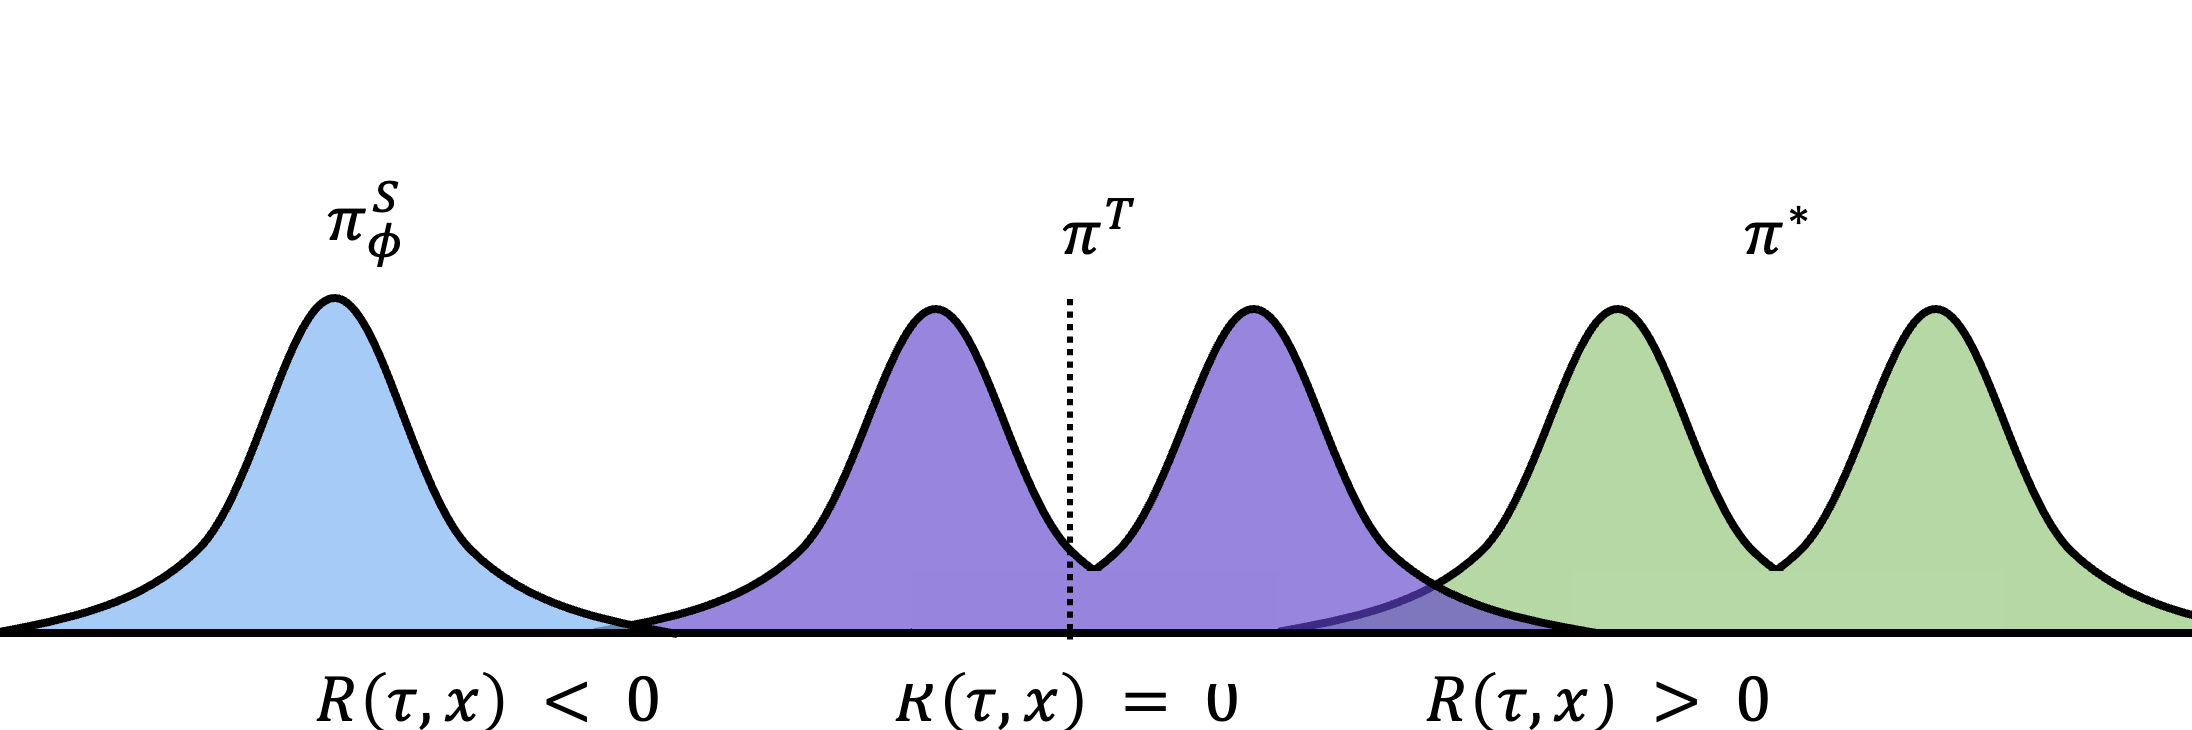
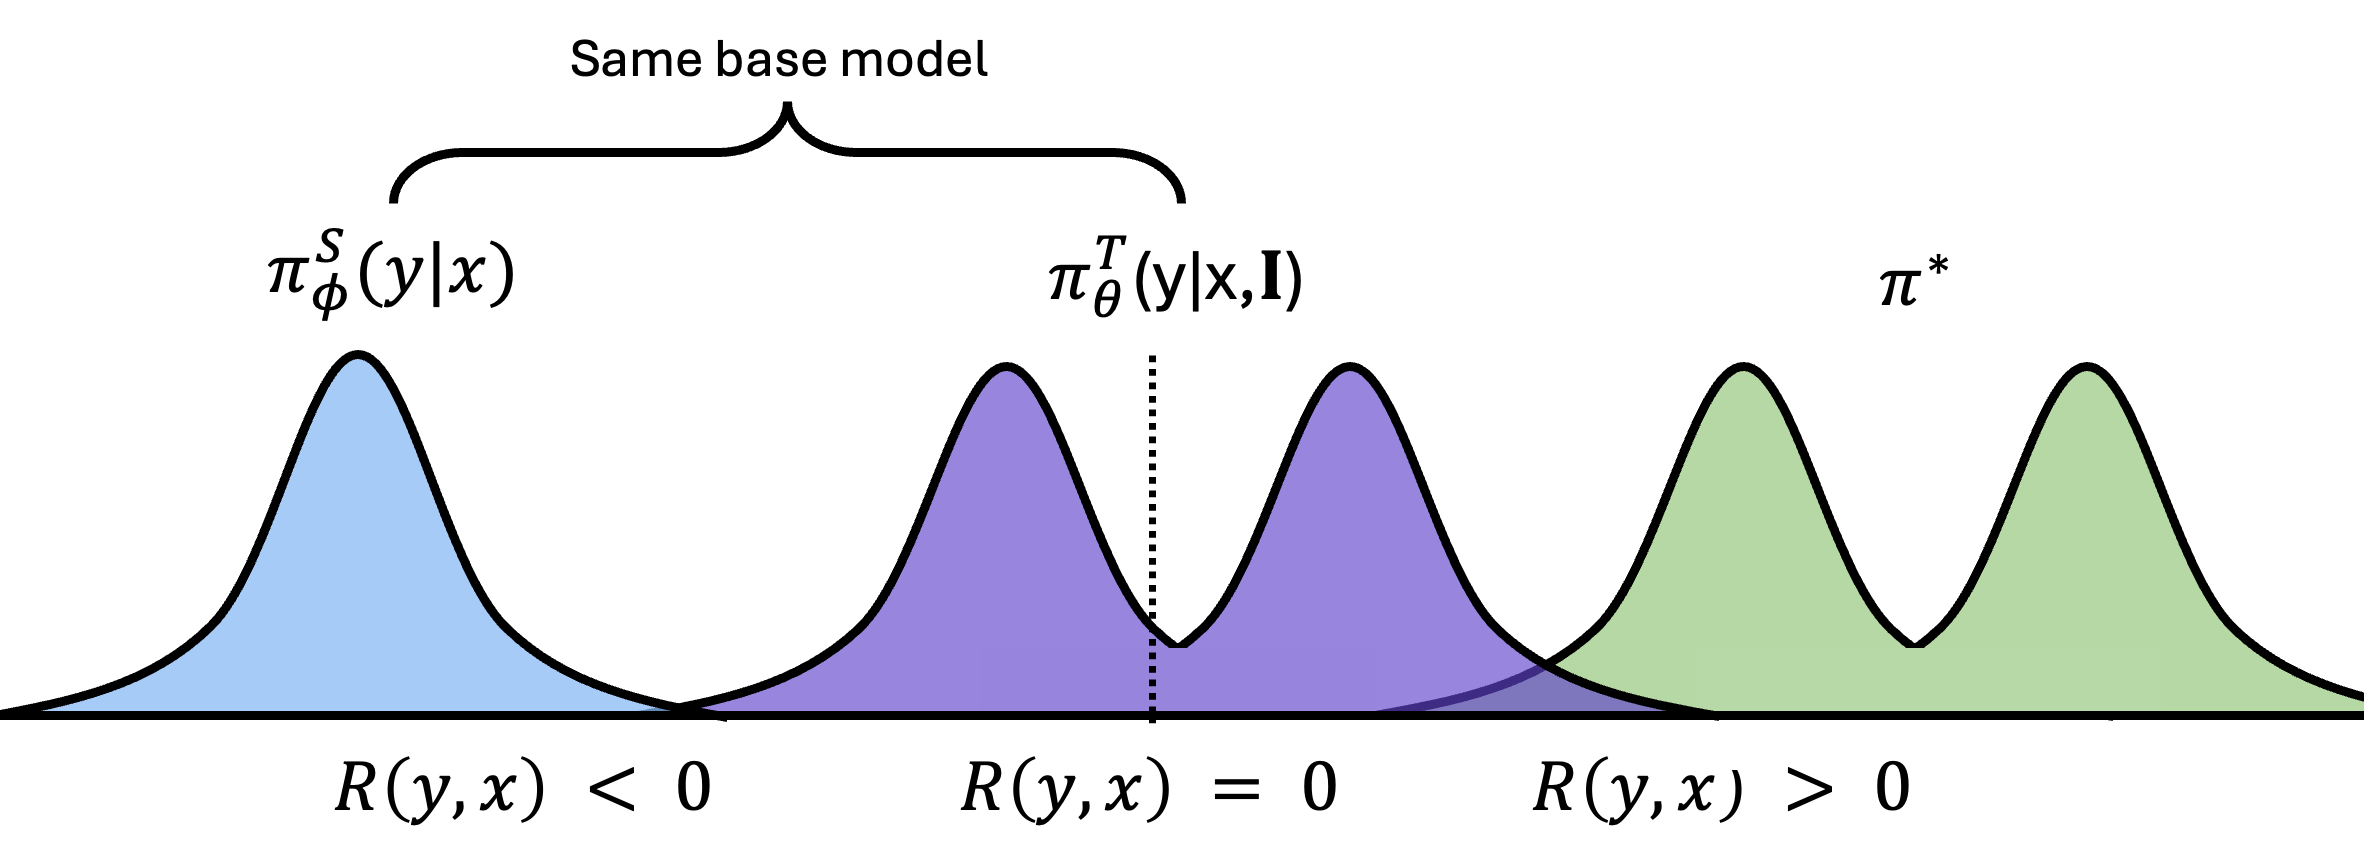
Update prose, add citations, fix notation and baseurl paths
- Add authors (Dheeraj Vattikonda)
- Add citations: Wang et al. 2023 (self-consistency), Sutton & Barto 2018
- Use \piSphifull in full derivation
- Improve flow throughout post
- Fix figure path for start-w-teacher.png

diff --git a/_posts/2026-02-04-privileged-information-distillation.md b/_posts/2026-02-04-privileged-information-distillation.md
@@ -4,6 +4,8 @@ date: 2026-02-04
 authors:
   - name: "Emiliano Penaloza"
     url: "https://emilianopp.com/#/home"
+  - name: "Dheeraj Vattikonda"
+    url: "https://vattikondadheeraj.github.io/"
   - name: "Siddarth Venkatraman"
     url: "https://hyperpotatoneo.github.io/"
 description: "An introductory guide to self-distillation and privileged information distillation for language models. Covers RL-as-inference, forward-KL (SFT), reverse-KL self-distillation, reward-tilted distillation, variational EM, and pi-Distill with interactive visualizations."
@@ -23,7 +25,7 @@ citation: |
 This post provides an introductory overview of recent works on self-distillation and privileged information distillation, including [Shenfeld et al. (2026)](#ref-shenfeld2026), [Zhao et al. (2026)](#ref-zhao2026), [Hübotter et al. (2026)](#ref-hubotter2026), and [Penaloza et al. (2026)](#ref-penaloza2026). We aim to build intuition for how these algorithms work, where they come from, and when their assumptions hold. Throughout, we favour gaining intuition over providing a complete nuanced view, using simplified 2D/3D visualizations of these algorithms to describe the core ideas.
 
 
-Our work spans the intersection of variational inference and reinforcement learning applied to LMs. We hope this blog is approachable to a broad audience assuming only a small background in reinforcement learning. Regardless, we provide some supplemental reading for those interested.
+We hope this blog is approachable to a broad audience assuming only a small background in reinforcement learning and its application to LMs. Regardless, we provide some supplemental reading for those interested. 
 <details>
 <summary><strong>Supplemental Reading</strong> (click to expand)</summary>
 
@@ -61,7 +63,7 @@ Our work spans the intersection of variational inference and reinforcement learn
 
 </details>
 
-## Reinforcement Learning as Inference
+## Reinforcement Learning as Variational Inference
 
 The goal of RL is to maximize reward
 
@@ -69,13 +71,13 @@ $$
 \piStar = \arg\max_\pi \mathbb{E}_{y \sim \pi(\cdot \mid x)}\left[R(y, x)\right]
 $$
 
-to obtain a target policy $\piStar$. A slightly different perspective treats RL as an inference problem where we define the target policy as a distribution over outputs
+to obtain a target policy $\piStar$. A slightly different perspective treats RL as a *variational* inference problem where we define the target policy as a distribution over outputs
 
 $$
 \piStarfull = \frac{1}{Z(x)}\,\pi_{\mathrm{ref}}(y \mid x)\exp\left(\frac{R(y, x)}{\beta}\right)
 $$
 
-Since the partition function $Z$ makes direct inference intractable, we instead parameterize an approximate policy $\piSphi$ and minimize the reverse-KL divergence to $\piStar$. We use the reverse direction because we can only sample from $\piSphi$, not from $\piStar$
+Since the partition function $Z$ makes direct inference intractable, we instead parameterize an approximate policy $\piSphi$ and minimize the reverse-KL divergence to $\piStar$. Where we use reverse-KL as we can only sample from $\piSphi$, not from $\piStar$
 
 $$
 \underbrace{D_{\text{kl}}(\piSphi \;\|\; \piStar)}_{\text{Reverse-KL}} = \mathbb{E}_{y\sim\piSphi}\left[\log\frac{\piSphi(y \mid x)}{\piStarfull}\right]
@@ -90,15 +92,15 @@ $$
 <details>
 <summary><strong>Full Derivation</strong> (click to expand)</summary>
 
-<p>Expanding the $\piStar$ definition and starting from the reverse-KL</p>
+<p> Starting from the reverse-KL objective and substituting in the definition of $\piStar$ </p>
 
 $$
 \begin{aligned}
 D_{\text{kl}}(\piSphi \;\|\; \piStar)
-&= \mathbb{E}_{y\sim\piSphi}\left[\log\frac{\piSphi(y \mid x)}{\piStarfull}\right] \\
-&= \mathbb{E}_{y\sim\piSphi}\left[\log\frac{\piSphi(y \mid x)}{\frac{1}{Z(x)}\,\pi_{\mathrm{ref}}(y \mid x)\exp\!\left(\frac{R(y,x)}{\beta}\right)}\right] \\
-&= \mathbb{E}_{y\sim\piSphi}\left[\log\piSphi(y \mid x) - \log\pi_{\mathrm{ref}}(y \mid x) - \frac{R(y,x)}{\beta} + \log Z(x)\right] \\
-&= D_{\text{kl}}(\piSphi\;\|\;\pi_{\mathrm{ref}}) - \frac{1}{\beta}\,\mathbb{E}_{y\sim\piSphi}\left[R(y, x)\right] + \log Z(x)
+&= \mathbb{E}_{y\sim\piSphifull}\left[\log\frac{\piSphifull}{\piStarfull}\right] \\
+&= \mathbb{E}_{y\sim\piSphifull}\left[\log\frac{\piSphifull}{\frac{1}{Z(x)}\,\pi_{\mathrm{ref}}(y \mid x)\exp\!\left(\frac{R(y,x)}{\beta}\right)}\right] \\
+&= \mathbb{E}_{y\sim\piSphifull}\left[\log\piSphifull - \log\pi_{\mathrm{ref}}(y \mid x) - \frac{R(y,x)}{\beta} + \log Z(x)\right] \\
+&= D_{\text{kl}}(\piSphifull\;\|\;\pi_{\mathrm{ref}}) - \frac{1}{\beta}\,\mathbb{E}_{y\sim\piSphifull}\left[R(y, x) + \log Z(x)\right] 
 \end{aligned}
 $$
 
@@ -123,30 +125,32 @@ When $\beta > 0$, the policy behaves similarly but drifts less from the referenc
 
 <video src="{{ site.baseurl }}/figures/rl-kl.mov" autoplay loop muted playsinline></video>
 
-Both behaviors can be useful in different contexts. When entropy has collapsed, the model can reliably sample from a high-reward mode. When entropy is preserved, the model retains coverage over potentially higher-reward regions. This tradeoff becomes more nuanced when distributions are multimodal (multiple peaks), which is the setting we consider for the remainder of this post.
+Both behaviors can be useful in different contexts. When entropy has collapsed, the model can reliably sample from a high-reward mode. When entropy is preserved, the model can *potentially* retain coverage over potentially higher-reward regions. Furthermore, preserving entropy can increase diversity, which can aid inference time scaling ([Wang et al., 2023](#ref-wang2023)).
+
+ This tradeoff becomes more nuanced when distributions are multimodal (multiple peaks), which is the setting we consider for the remainder of this post.
 
 Regardless, the choice of $\beta$ is largely task-specific and often decided via hyperparameter tuning ([Shah et al., 2026](#ref-shah2026)). 
 
 
-## Failures of RL
+## Failures of Reinforcement Learning
 
-While this objective has proven widely successful, it relies on the policy $\piSphi$ being able to sample high-reward outputs. When the policy cannot produce any successful trajectories, there is no positive signal to reinforce.
+While RL has proven widely successful, specifically in LM reasoning, it relies on the policy $\piSphi$ being able to sample high-reward outputs. When the policy cannot produce any successful trajectories, there is no positive signal to reinforce.
 
-For instance, consider the following setting.
+For instance, consider the following setting:
 
 ![Student-only policy failing example]({{ site.baseurl }}/figures/rl-zero.png)
 
 
 Notice that $\piSphi$ does not have support over correct trajectories, so applying RL in this setting would lead to the model only ever learning what *not* to do, never what *to* do. Without any high-reward samples to reinforce, it cannot bootstrap itself toward $\piStar$. While an LM technically has full support over the token space, making it theoretically possible to eventually sample a correct trajectory, this is infeasible in practice.
 
-These settings are common in practice. LMs often struggle with long-horizon agentic tasks and hard reasoning problems, making improvements in these areas particularly impactful.
+These settings are common in practice. LMs often struggle to sample correct solutions to long-horizon agentic tasks and//or hard reasoning problems, thus alleviating this could help greatly improve performance.
 
 
 ### Shaping a LM distribution by Conditioning
 
-Although typical RL fails in these settings, LMs provide a useful property that can alleviate this problem. Unlike other ML systems, LMs can be freely conditioned on additional information. Notably, even a small amount of *Privileged Information* (PI) can enable models to sample tasks they previously could not. The figure below shows $\piTthetafull$, the same model now conditioned on privileged information $\mathbf{I}$, which we refer to as the *teacher*. Although initially both are the same model, this is not the case as we train some of these components so we use different parameters to denote the teacher $\theta$ and the student $\phi$.  
+Although typical RL fails in these settings, LMs provide a useful property that can alleviate this problem. Unlike other ML systems, LMs can be freely conditioned on additional information. Notably, even a small amount of *Privileged Information* (PI) can enable models to succeed at tasks they previously could not. The figure below shows $\piTthetafull$, the same model now conditioned on privileged information $\mathbf{I}$, which we refer to as the *teacher*. Although initially both are the same model, this is not the case as we train some of these components so we use different parameters to denote the teacher $\theta$ and the student $\phi$.  
 
-![With teacher example]({{ site.baseurl }}/figures/teacher-self.png)
+![With teacher example]({{ site.baseurl }}/figures/start-w-teacher.png)
 
 
 After contextualizing on $\mathbf{I}$, we see that the model can now sample successful traces. The only problem now is that we won't have access to $\mathbf{I}$ at test time, since it is typically *task-specific*. So we need to find a way to transfer the information embedded within it to $\piSphi$, as this is the only policy we have access to at test time.
@@ -175,9 +179,9 @@ $$
 J_{\text{SFT}}(\phi) = \max_\phi\; \mathbb{E}_{y\sim\piTthetafull}\left[\log \piSphifull\right]
 $$
 
-Typically $\piTtheta$ is a larger model, but in our setting it can be the same model with added context like $\piTthetafull$.
+Typically $\piTtheta$ is a larger model, but in our case it is the same model with added context $\mathbf{I}$.
 
-While this approach is powerful, it is inherently limited by forward-KL being *mode covering*.
+While this approach is powerful, it is inherently limited by forward-KL being *mode covering*:
 
 <video src="{{ site.baseurl }}/figures/sft.mov" autoplay loop muted playsinline></video>
 
@@ -186,19 +190,21 @@ This can lead to the student outputting samples that are unlikely under the teac
 
 ## Self-Distillation via Reverse KL
 
-A natural fix to the mode-covering behavior of forward-KL is to instead optimize reverse-KL, which is *mode seeking*. When using $\piTthetafull$ as the teacher, this is referred to as self-distillation and optimizes the following objective
+A natural fix to the mode-covering behavior of forward-KL is to instead optimize reverse-KL, which is *mode seeking*. This idea comes from [Agarwal et al. (2023)](#ref-onpoldistill), which shows that distilling on-policy can lead to significantly better performance and generalization on a variety of tasks when compared to SFT. When using $\piTthetafull$ as the teacher, this is referred to as self-distillation and optimizes the following objective
 
 $$
 D_{\text{kl}}(\piSphi \;\|\; \piTtheta) = \mathbb{E}_{y\sim\piSphi}\left[\log\frac{\piSphifull}{\piTthetafull}\right].
 $$
 
-Minimizing this encourages the student to place mass where it already samples, but guided by the teacher's density. We note that typically most works allow $\phi$ to equal $\theta$ as in [Penaloza et al. (2026)](#ref-penaloza2026), be an exponential moving average as in [Hübotter et al. (2026)](#ref-hubotter2026), [Shenfeld et al. (2026)](#ref-shenfeld2026), and [Zhao et al. (2026)](#ref-zhao2026), or simply be the base model. 
+Optimizing this encourages the student to seek easy to fit modes of the teacher, which may not necesarilly be optimal. This objective is the most widely used in recent works employed by [Shenfeld et al. (2026)](#ref-shenfeld2026), [Zhao et al. (2026)](#ref-zhao2026) and [Hübotter et al. (2026)](#ref-hubotter2026), which has been shown to be a potent alternative to traditional SFT. We note that typically most works allow $\phi$ to equal $\theta$ as in [Penaloza et al. (2026)](#ref-penaloza2026), be an exponential moving average as in [Hübotter et al. (2026)](#ref-hubotter2026), [Shenfeld et al. (2026)](#ref-shenfeld2026), and [Zhao et al. (2026)](#ref-zhao2026), or simply be the base model. 
 
+
+Effectively this objective acts similarly to the RL objective above:
 <video src="{{ site.baseurl }}/figures/rKL.mov" autoplay loop muted playsinline></video>
 
-This idea comes from [Agarwal et al. (2023)](#ref-onpoldistill), which shows that distilling on-policy can lead to significantly better performance and generalization on a variety of tasks when compared to SFT.
 
-But as seen in the figure above, this can lead to some suboptimal behavior, where the policy fits a suboptimal mode of the teacher.
+
+Here we see that the student can appropriatly fit the teacher's mode, but this can lead to some suboptimal behavior, where the policy fits a lower-reward mode of the teacher.
 
 
 ## Reward-Tilted Self-Distillation
@@ -243,7 +249,7 @@ $$
 
 Introducing this reward bias enables the student to fit higher-reward modes. Notice that this objective has the same form as the RL-as-inference objective, simply with the teacher as the prior instead of a fixed reference.
 
-However, this objective relies on the teacher already being a good approximation of $\piStar$, which can be unrealistic in many settings.
+However, self-distillation in general, assumes that the teacher is an ok approximation of $\piStar$, which can be unrealistic in many settings. For instance, in some settings the $\piT$ may not know how to properly leverage a hint ($\mathbf{I}$) to obtain the right answer.
 
 
 
@@ -252,10 +258,10 @@ However, this objective relies on the teacher already being a good approximation
 One assumption that self-distillation relies on is that the teacher model $\piT$ has support over high-reward regions, meaning $\piTtheta \approx \piStar$. While this is likely valid in many settings, it may not hold when even conditioning on $\mathbf{I}$ does not give the model sufficient coverage over high-reward regions.
 
 
-
+For instance see the figure below: 
 ![Teacher with limited coverage]({{ site.baseurl }}/figures/bad-teacher.png)
 
-In this case, regardless of which algorithm we use, we are limited by the abilities of the teacher. To mitigate this, we can first train the teacher to approximate $\piStar$, putting us back in a setting where distillation via SFT is effective.
+Here while $\piT$ does have some coverage over succesful outputs, most of it's mass lies in the low-reward region. In this case, regardless of which algorithm we use, we are limited by the abilities of the teacher.  To mitigate this, we can first train the teacher to approximate $\piStar$, putting us back in a setting where distillation is effective.
 
 We can train the teacher via the same reward-tilted reverse-KL objective from before, but now defining the target as a reward-tilted variant of the student
 
@@ -266,10 +272,10 @@ $$
 Minimizing the reverse-KL between the teacher and $\piStar$ yields
 
 $$
-J_{\text{Teacher}}(\theta) = \mathbb{E}_{y \sim \piTthetafull}\left[R(y, x)\right] - \beta \, D_{\text{kl}}\big(\piTthetafull \;\|\; \text{sg}[\piSthetafull]\big)
+J_{\text{Teacher}}(\theta) = \underbrace{\mathbb{E}_{y \sim \piTthetafull}\left[R(y, x)\right] }_{\text{Make teacher better}}- \beta \underbrace{\, D_{\text{kl}}\big(\piTthetafull \;\|\; \text{sg}[\piSthetafull]\big)}_{\text{Make learning from teacher easier}}
 $$
 
-Here $\text{sg}[\cdot]$ denotes stop-gradient, meaning the student is held fixed when updating the teacher. This encourages the teacher to maximize reward while not drifting too far from the student.
+Here $\text{sg}[\cdot]$ denotes stop-gradient, meaning the student is held fixed when updating the teacher. This encourages the teacher to maximize reward while not drifting too far from the student. Effectively, one part of the objetive aims to improve the teacher, while the other aims at making the samples from the teacher look more similar to those of the student. Making the teacher act like the student may seem counter-intuitive, but the KL term keeps the teacher's samples close to the student's distribution, meaning they stay more *on-policy* ([Sutton & Barto, 2018](#ref-sutton2018)). This makes the teacher an easier target for the student to distill from later.
 
 <details>
 <summary><strong>Derivation of Teacher Objective</strong> (click to expand)</summary>
@@ -309,7 +315,7 @@ Using $J_{\text{Teacher}}$ we can make the teacher resemble $\piStar$, after whi
 
 <video src="{{ site.baseurl }}/figures/em3.mov" autoplay loop muted playsinline></video>
 
-Here KL-constrained RL first improves the teacher, allowing $\piTtheta$ to approximate $\piStar$ while collapsing onto a single mode since the KL constraint keeps it close to $\piSphi$. After improving $\piT$ sufficiently, we draw samples from it and optimize $J_{\text{SFT}}$ to improve $\piSphi$, the policy we use at deployment.
+Here KL-constrained RL first improves the teacher, allowing $\piTtheta$ to approximate $\piStar$ while collapsing onto a single mode since the KL constraint keeps it close to $\piSphi$. After improving $\piT$ sufficiently, we can then use any distillation objetive to fit $\piS$ onto $\piT$. The fastest and most common is to use $J_{\text{SFT}}$ by drawing samples from the improved teacher $\piT$ and use them to train $\piSphi$.
 
 This approach is the one primarily used in [Zhou et al. (2025)](#ref-zhou2025). While it can improve over the base policy, in [Penaloza et al. (2026)](#ref-penaloza2026) we show that it is inefficient and in many cases simply training the teacher suffices. Thus, one can greatly simplify the process by simultaneously training the teacher and student.
 
@@ -461,3 +467,9 @@ Finally, recent work suggests that fitting policies to more off-policy data indu
 
 <a id="ref-liao2026"></a>
 **[Liao et al., 2026]** Liao, B., Dong, H., Xu, X., Monz, C., & Bian, J. (2026). *Self-Hinting Language Models Enhance Reinforcement Learning*. [arXiv:2602.03143](https://arxiv.org/abs/2602.03143)
+
+<a id="ref-sutton2018"></a>
+**[Sutton & Barto, 2018]** Sutton, R. S., & Barto, A. G. (2018). *Reinforcement Learning: An Introduction* (2nd ed.). MIT Press. [http://incompleteideas.net/book/the-book-2nd.html](http://incompleteideas.net/book/the-book-2nd.html)
+
+<a id="ref-wang2023"></a>
+**[Wang et al., 2023]** Wang, X., Wei, J., Schuurmans, D., Le, Q., Chi, E., Narang, S., Chowdhery, A., & Zhou, D. (2023). *Self-Consistency Improves Chain of Thought Reasoning in Language Models*. [arXiv:2203.11171](https://arxiv.org/abs/2203.11171)
